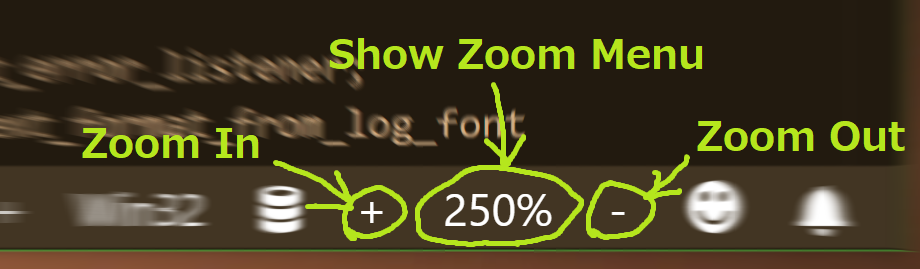
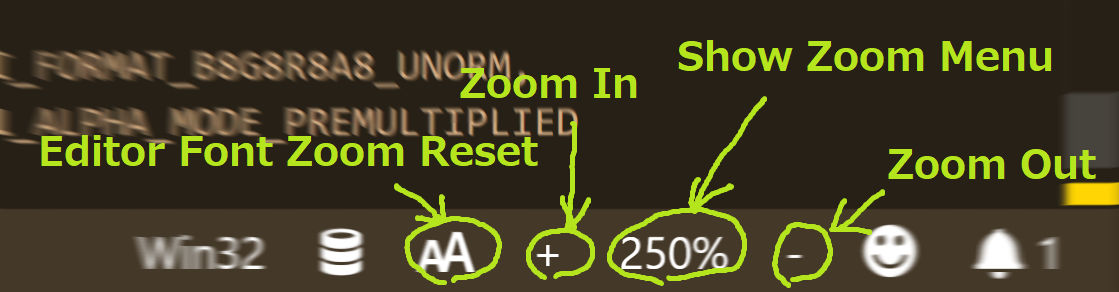
📝 フォントズームリセット対応に関する README 更新

diff --git a/README.md b/README.md
@@ -10,8 +10,6 @@ Can zoom via GUI in status bar.
 
 ![screen shot](./images/screenshot.png)
 
-> Zoom Bar changes only `window.zoomLevel`, does not change editor font zoom.
-
 ## Tutorial
 
 ### 0. ⬇ Install Zoom Bar
@@ -23,6 +21,8 @@ Show extension side bar within VS Code(Mac:<kbd>Command</kbd>+<kbd>Shift</kbd>+<
 Click `-` to zoom out, click `+` to zoom in. And click zoom percentage to show zoom menu.
 
 ![how to use](./images/how-to-use.png)
+
+![menu screen shot](./images/menu.png)
 
 ### 2. 🔧 Next step
 
@@ -46,6 +46,7 @@ This extension contributes the following settings by [`settings.json`](https://c
 * `zoombar.zoomPreset`: set zoom preset
 * `zoombar.zoomInLabel`: set zoom in's label
 * `zoombar.zoomOutLabel`: set zoom out's label
+* `zoombar.fontZoomResetLabel`: set `Editor Font Zoom Reset`'s label
 * `zoombar.uiDisplayOrder`: set zoom UI display order
 
 You can embed icons in the label text( `zoombar.zoomInLabel`,  `zoombar.zoomOutLabel` ) by leveraging the syntax:
